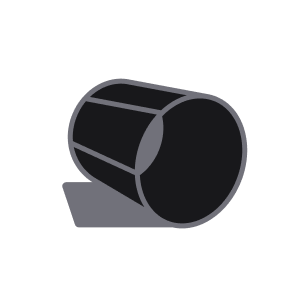
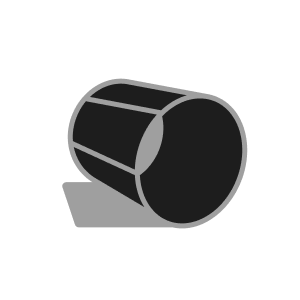
Polish Home CTAs and empty states, and drop the Projects grid from Home.
Keep Home focused on start/last/recent, use the peach create-project accent, and refresh empty-state art.

Changed region(s): [[0.21, 0.24, 0.84, 0.78]]

diff --git a/components/ui/button.tsx b/components/ui/button.tsx
@@ -5,7 +5,7 @@ import { Slot } from "radix-ui"
 import { cn } from "@/lib/utils"
 
 const buttonVariants = cva(
-  "group/button inline-flex shrink-0 items-center justify-center rounded-lg border border-transparent bg-clip-padding text-sm font-medium whitespace-nowrap transition-all outline-none select-none focus-visible:border-ring focus-visible:ring-3 focus-visible:ring-ring/50 active:not-aria-[haspopup]:translate-y-px disabled:pointer-events-none disabled:opacity-50 aria-invalid:border-destructive aria-invalid:ring-3 aria-invalid:ring-destructive/20 dark:aria-invalid:border-destructive/50 dark:aria-invalid:ring-destructive/40 [&_svg]:pointer-events-none [&_svg]:shrink-0 [&_svg:not([class*='size-'])]:size-4",
+  "group/button inline-flex shrink-0 items-center justify-center rounded-lg border border-transparent bg-clip-padding text-sm font-semibold whitespace-nowrap transition-all outline-none select-none focus-visible:border-ring focus-visible:ring-3 focus-visible:ring-ring/50 active:not-aria-[haspopup]:translate-y-px disabled:pointer-events-none disabled:opacity-50 aria-invalid:border-destructive aria-invalid:ring-3 aria-invalid:ring-destructive/20 dark:aria-invalid:border-destructive/50 dark:aria-invalid:ring-destructive/40 [&_svg]:pointer-events-none [&_svg]:shrink-0 [&_svg:not([class*='size-'])]:size-4",
   {
     variants: {
       variant: {

diff --git a/components/home-page-content.tsx b/components/home-page-content.tsx
@@ -7,11 +7,10 @@ import { useEffect, useState } from "react";
 import { CreateProjectSection } from "@/components/create-project-section";
 import { HomeSearch } from "@/components/home-search";
 import { LastProjectsList } from "@/components/last-projects-list";
-import { ProjectCardsGrid } from "@/components/project-cards-grid";
 import { RecentVisualsSection } from "@/components/recent-visuals-section";
 import { cn } from "@/lib/utils";
 
-/** Home: welcome, search, create project, then recent visuals and projects. */
+/** Home: welcome, search, create project, then recent visuals. */
 export function HomePageContent() {
   const [query, setQuery] = useState("");
   const searching = query.trim().length > 0;
@@ -94,22 +93,6 @@ export function HomePageContent() {
         </div>
 
         <RecentVisualsSection />
-
-        <section
-          aria-labelledby="projects-heading"
-          className="flex flex-col gap-8"
-        >
-          <div className="flex flex-col gap-2">
-            <h2
-              id="projects-heading"
-              className="text-2xl font-semibold tracking-tight text-foreground md:text-3xl"
-            >
-              Projects
-            </h2>
-          </div>
-
-          <ProjectCardsGrid />
-        </section>
       </div>
     </div>
   );

diff --git a/components/create-project-section.tsx b/components/create-project-section.tsx
@@ -8,10 +8,10 @@ export function CreateProjectSection() {
   return (
     <div className="flex min-h-64 flex-1 flex-col items-center justify-center gap-4 rounded-xl border border-neutral-800/80 bg-neutral-900/30 px-8 py-16 text-center">
       <span
-        className="flex size-12 shrink-0 items-center justify-center rounded-lg bg-neutral-800"
+        className="flex size-12 shrink-0 items-center justify-center rounded-lg bg-[#F6AF7B]/20"
         aria-hidden
       >
-        <Plus className="size-5 text-foreground" strokeWidth={2} />
+        <Plus className="size-5 text-[#F6AF7B]" strokeWidth={2} />
       </span>
 
       <div className="flex max-w-md flex-col gap-2">
@@ -24,7 +24,7 @@ export function CreateProjectSection() {
         </p>
       </div>
 
-      <Button asChild variant="outline" className="mt-1 h-10 px-4">
+      <Button asChild className="mt-1 h-10">
         <Link href="/projects/new">
           <Plus data-icon="inline-start" strokeWidth={1.75} aria-hidden />
           Start building

diff --git a/components/project-cards-grid.tsx b/components/project-cards-grid.tsx
@@ -35,7 +35,7 @@ export function ProjectCardsGrid() {
       <div className="flex flex-col items-center gap-3 rounded-xl border border-dashed border-neutral-800 px-6 py-16 text-center">
         {/* eslint-disable-next-line @next/next/no-img-element -- static empty-state asset */}
         <img
-          src="/images/empty-states/projects.png"
+          src="/images/empty-states/projects.png?v=2"
           alt=""
           aria-hidden
           draggable={false}

diff --git a/components/trash-cards-grid.tsx b/components/trash-cards-grid.tsx
@@ -88,7 +88,7 @@ export function TrashCardsGrid({
       <div className="flex flex-col items-center gap-3 rounded-xl border border-dashed border-neutral-800 px-6 py-16 text-center">
         {/* eslint-disable-next-line @next/next/no-img-element -- static empty-state asset */}
         <img
-          src="/images/empty-states/trash.png"
+          src="/images/empty-states/trash.png?v=2"
           alt=""
           aria-hidden
           draggable={false}
